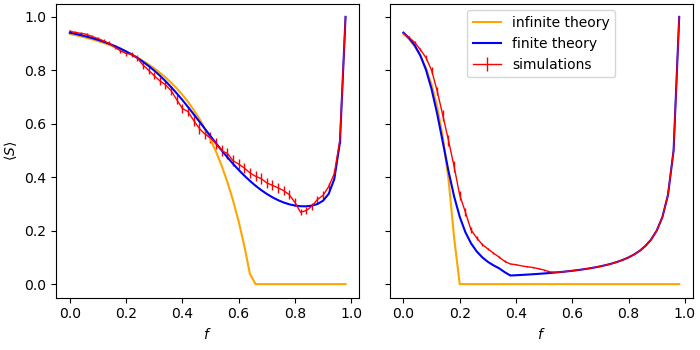
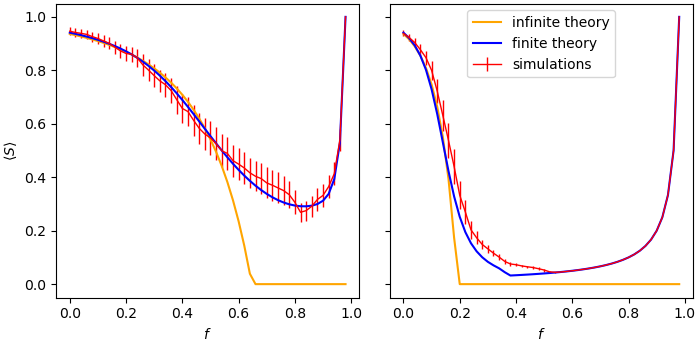
figure 2 test.py

diff --git a/Figure 2.py b/Figure 2.py
@@ -30,9 +30,9 @@ pvals = pickle.load(open('data/Pvalues.p', 'rb'))
 
 fig, axs = plt.subplots(1,2, figsize = [10,3.5])
 
-colors = ['red','blue','orange','green','purple','cyan']
-n_threshold = .2
-nodes_list = [10,15,25,50,75,100]
+colors = ['red','blue','orange','green','purple','cyan','magenta']
+n_threshold = .526
+nodes_list = [10,15,20,25,50,75,100]
 probs_list = [(1/(n_threshold*(x-1))) for x in nodes_list]
 print(probs_list)
 remove_bool = False
@@ -53,22 +53,24 @@ for i_n in range(len(nodes_list)):
     
     fin = (relSCurve_precalculated(n, p, targeted_removal=False, simulated=False, finite=True)[:n])
     
-    if i_n == len(nodes_list)-1:
-        path_name = "{}_attack{}_n{}.npy".format("infRelSCurve", remove_bool, n)
-        path_name = os.path.join("data", "synthetic_data", path_name)
-        all_inf = np.load(path_name)
-        #print(np.shape(all_inf))
-        inf = all_inf[p_index]
-        axs[0].plot(nodes_array, inf, label = "infinite theory")
     axs[0].plot(nodes_array, fin, label = "fin" + str(n), linestyle = '--', color = colors[i_n])
     axs[0].plot(nodes_array, sim, label = "sim"+str(n), marker = "o", ms = 3, color = colors[i_n])
     #axs[0].set_title('Nwks with same percolation percentage: random')
-    axs[0].set(xlabel='nodes', ylabel='Relative LCC')
+    axs[0].set(xlabel=r'$f$', ylabel=r'$\langle S \rangle$')
+
+    if i_n == len(nodes_list)-1:
+            path_name = "{}_attack{}_n{}.npy".format("infRelSCurve", remove_bool, n)
+            path_name = os.path.join("data", "synthetic_data", path_name)
+            all_inf = np.load(path_name)
+            #print(np.shape(all_inf))
+            inf = all_inf[p_index]
+            axs[0].plot(nodes_array, inf, label = "infinite theory")
+
     pos = axs[0].get_position()
     axs[0].set_position([pos.x0, pos.y0, pos.width, pos.height])
     axs[0].legend(loc='upper right', bbox_to_anchor=(2.65, 1.15))
 
-nodes_list = [10,15,25,50]
+nodes_list = [20] #[10,15,20,25,50]
 probs_list = [(1/(n_threshold*(x-1))) for x in nodes_list]
 print(probs_list)
 remove_bool = True
@@ -88,6 +90,15 @@ for i_n in range(len(nodes_list)):
     
     fin = (relSCurve_precalculated(n, p, targeted_removal=remove_bool, simulated=False, finite=True)[:n])
     
+    axs[1].plot(nodes_array, fin, label = "fin" + str(n), linestyle = '--', color = colors[i_n])
+    axs[1].plot(nodes_array, sim, label = "sim" + str(n), marker = 'o', ms = 3, color = colors[i_n])
+    #axs[1].set_title('Nwks with same percolation percentage: attack')
+    axs[1].set(xlabel=r'$f$')
+    axs[1].set_yticklabels([])
+    # pos = axs[1].get_position()
+    # axs[1].set_position([pos.x0, pos.y0, pos.width * 0.9, pos.height])
+    # axs[1].legend(loc='center right', bbox_to_anchor=(2.25, 0.5))
+
     if i_n == len(nodes_list)-1:
         # path_name = "{}_attack{}_n{}.npy".format("infRelSCurve", remove_bool, n)
         # path_name = os.path.join("data", "synthetic_data", path_name)
@@ -96,14 +107,6 @@ for i_n in range(len(nodes_list)):
         # inf = all_inf[p_index]
         inf = infiniteTheory.relSCurve(n, p, attack=remove_bool, smooth_end=False)
         axs[1].plot(nodes_array, inf, label = "infinite theory")
-    axs[1].plot(nodes_array, fin, label = "fin" + str(n), linestyle = '--', color = colors[i_n])
-    axs[1].plot(nodes_array, sim, label = "sim" + str(n), marker = 'o', ms = 3, color = colors[i_n])
-    #axs[1].set_title('Nwks with same percolation percentage: attack')
-    axs[1].set(xlabel='nodes')
-    axs[1].set_yticklabels([])
-    # pos = axs[1].get_position()
-    # axs[1].set_position([pos.x0, pos.y0, pos.width * 0.9, pos.height])
-    # axs[1].legend(loc='center right', bbox_to_anchor=(2.25, 0.5))
 
 #plt.legend(loc='center left',bbox_to_anchor=(1, 0.5))
 plt.subplots_adjust(left=0.08, right=.8, bottom=.15, top=0.9, wspace=.1)

diff --git a/Fig 2 Test.py b/Fig 2 Test.py
@@ -1,0 +1,83 @@
+import sys, pickle
+sys.path.insert(0, "libs")
+
+import os, pickle, csv # import packages for file I/O
+import time # package to help keep track of calculation time
+
+import numpy as np
+import networkx as nx
+import matplotlib.pyplot as plt
+import pandas as pd
+
+import scipy
+import scipy.stats as sst
+from scipy.special import comb
+from scipy.integrate import simpson
+from scipy.signal import argrelextrema
+from random import choice
+
+from libs.utils import *
+from libs.finiteTheory import *
+from visualizations import *
+from libs.utils import *
+from robustnessSimulations import *
+from performanceMeasures import *
+from infiniteTheory import *
+from finiteTheory import *
+
+fvals = pickle.load(open('data/fvalues.p', 'rb'))
+pvals = pickle.load(open('data/Pvalues.p', 'rb'))
+
+
+fig = plot_graphs(numbers_of_nodes=[20], edge_probabilities=[.1],
+                     graph_types=['ER'], remove_strategies=["attack"],
+                     performance='relative LCC', num_trials=100,
+                     smooth_end=False, forbidden_values=[], fdict=fvals, lcc_method_main="pmult", savefig='',
+                     simbool=True)
+
+colors = ['red','blue','orange','green','purple','cyan','magenta']
+n_threshold = .526
+nodes_list = [20]
+probs_list = [(1/(n_threshold*(x-1))) for x in nodes_list]
+
+remove_bool = True
+
+for i_n in range(len(nodes_list)):
+    n = nodes_list[i_n]
+    nodes_array = np.arange(n)/n
+    p = round(probs_list[i_n], 2)
+    p_index = int(p/.01 - 1)
+    all_sim = relSCurve_precalculated(n, p, targeted_removal=remove_bool, simulated=True, finite=False)
+    #print("allsim",i,j,all_sim)
+    sim = np.zeros(n)
+    #print("i",i)
+    for k in range(n):
+        sim = sim + np.transpose(all_sim[:,k][:n])
+    sim = sim / n
+    
+    fin = (relSCurve_precalculated(n, p, targeted_removal=remove_bool, simulated=False, finite=True)[:n])
+    
+    if i_n == len(nodes_list)-1:
+        # path_name = "{}_attack{}_n{}.npy".format("infRelSCurve", remove_bool, n)
+        # path_name = os.path.join("data", "synthetic_data", path_name)
+        # all_inf = np.load(path_name)
+        # #print(np.shape(all_inf))
+        # inf = all_inf[p_index]
+        inf = infiniteTheory.relSCurve(n, p, attack=remove_bool, smooth_end=False)
+        plt.plot(nodes_array, inf, label = "infinite theory")
+    plt.plot(nodes_array, fin, label = "fin" + str(n), linestyle = '--', color = colors[i_n])
+    plt.plot(nodes_array, sim, label = "sim" + str(n), marker = 'o', ms = 3, color = colors[i_n])
+    #plt.set_title('Nwks with same percolation percentage: attack')
+    # plt.set_xlabel(r'f')
+    # plt.set_yticklabels([])
+    # pos = plt.get_position()
+    # plt.set_position([pos.x0, pos.y0, pos.width * 0.9, pos.height])
+    # plt.legend(loc='center right', bbox_to_anchor=(2.25, 0.5))
+
+#plt.legend(loc='center left',bbox_to_anchor=(1, 0.5))
+
+
+
+plt.subplots_adjust(left=0.08, right=.8, bottom=.15, top=0.9, wspace=.1)
+plt.savefig("Fig 2 test")
+

diff --git a/percolation graph.py b/percolation graph.py
@@ -130,11 +130,11 @@ def one_perc_thresh_table(threshold=.5, nodes=[10, 20, 30, 40, 50, 60], removal=
     for i in range(len(nodes_array)):
         prob_array[i] = 1 / (percthresh * (nodes_array[i] - 1))
 
-    # fig = plot_graphs(numbers_of_nodes=[nodes_array[0]], edge_probabilities=[prob_array[0]],
-    #                  graph_types=['ER'], remove_strategies=removal,
-    #                  performance='relative LCC', num_trials=100,
-    #                  smooth_end=False, forbidden_values=[], fdict=fvals, lcc_method_main="pmult", savefig='',
-    #                  simbool=True)
+    fig = plot_graphs(numbers_of_nodes=[nodes_array[0]], edge_probabilities=[prob_array[0]],
+                     graph_types=['ER'], remove_strategies=removal,
+                     performance='relative LCC', num_trials=100,
+                     smooth_end=False, forbidden_values=[], fdict=fvals, lcc_method_main="pmult", savefig='',
+                     simbool=True)
 
     for j in range(len(nodes_array)):
         sim_data = completeRCData(numbers_of_nodes=[nodes_array[j]],
@@ -240,4 +240,4 @@ def one_perc_thresh_table(threshold=.5, nodes=[10, 20, 30, 40, 50, 60], removal=
 # plt.savefig("one_perc_graph_attack_pointfour")
 
 
-one_perc_thresh_table(threshold=.2, nodes=[10, 15, 25, 50], removal=["attack"])
+one_perc_thresh_table(threshold=.526, nodes=[20], removal=["attack"])

diff --git a/Figure 4.py b/Figure 4.py
@@ -70,6 +70,7 @@ for j in range(num_nwks):
 fig = plt.figure()
  
 ## 2D stuff
+    # n vs p, colors mse
 max = np.max(mse_array)
 print(max)
 med = np.median(mse_array)
@@ -77,6 +78,18 @@ print(med)
 
     # n vs p with mse as colors
 plt.scatter(nodes_array, probs_array , c=mse_array, s=20, vmin = -.05, vmax = .1, cmap = "Reds")
+#plt.show()
+
+    # mse vs p, bin by nodes
+ax = plt.axes(projection = "3d")
+#plt.scatter(probs_array, mse_array, nodes_array)
+plt.scatter(nodes_array, probs_array, mse_array)
+nbin_means,nbin_edges, nbinnumber = scipy.stats.binned_statistic(nodes_array, mse_array, statistic='mean', bins=10, range=None)
+print(nbin_means)
+print(nbin_edges)
+plt.hlines(nbin_means, nbin_edges[:-1], nbin_edges[1:], colors='g', lw=2,
+           label='bins')
+plt.show()
 
 ## 3D stuff
 #ax = plt.axes(projection ='3d')
@@ -87,6 +100,5 @@ plt.scatter(nodes_array, probs_array , c=mse_array, s=20, vmin = -.05, vmax = .1
 #ax.plot_trisurf(nodes_array, probs_array, mse_array, triangles=tri.triangles, cmap=plt.cm.Spectral)
 
 #ax.set_title('MSE over n and p')
-
-plt.show()
+#plt.show()
 

diff --git a/Figure 3.py b/Figure 3.py
@@ -101,8 +101,8 @@ def fig_3(total_n,total_p,remove_bool):
     add_colorbar(z4_plot)
     ax1.set(ylabel='p')
     #ax2.set(xlabel='nodes')
-    ax3.set(xlabel='nodes',ylabel='p')
-    ax4.set(xlabel='nodes')
+    ax3.set(xlabel=r'N',ylabel=r'p')
+    ax4.set(xlabel=r'N')
     ax1.set_title("AUC")
     ax2.set_title("MSE Finite")
     ax3.set_title("MSE Difference")
@@ -110,7 +110,7 @@ def fig_3(total_n,total_p,remove_bool):
 
     plt.savefig("Fig 3 Final")
 
-fig_3(30,100,False)
+fig_3(35,100,False)
 
 
 # #auc

diff --git a/Figure 1.py b/Figure 1.py
@@ -70,7 +70,7 @@ for i in range(len(remove_bools)):
             sim_data[i_nums] = data[j][i_nums]
         std = np.std(sim_data)
         #print(std)
-        std_table[j] = std / 10 # 10 for standard error (sqrt100)
+        std_table[j] = std / 10 * 3 # 10 for standard error (sqrt100)
         sim_y[j] = np.nanmean(sim_data)
 
     axs[i].errorbar(x=nodes, y=sim_y, yerr = std_table, label = "simulations", lw=1, color = "red")
